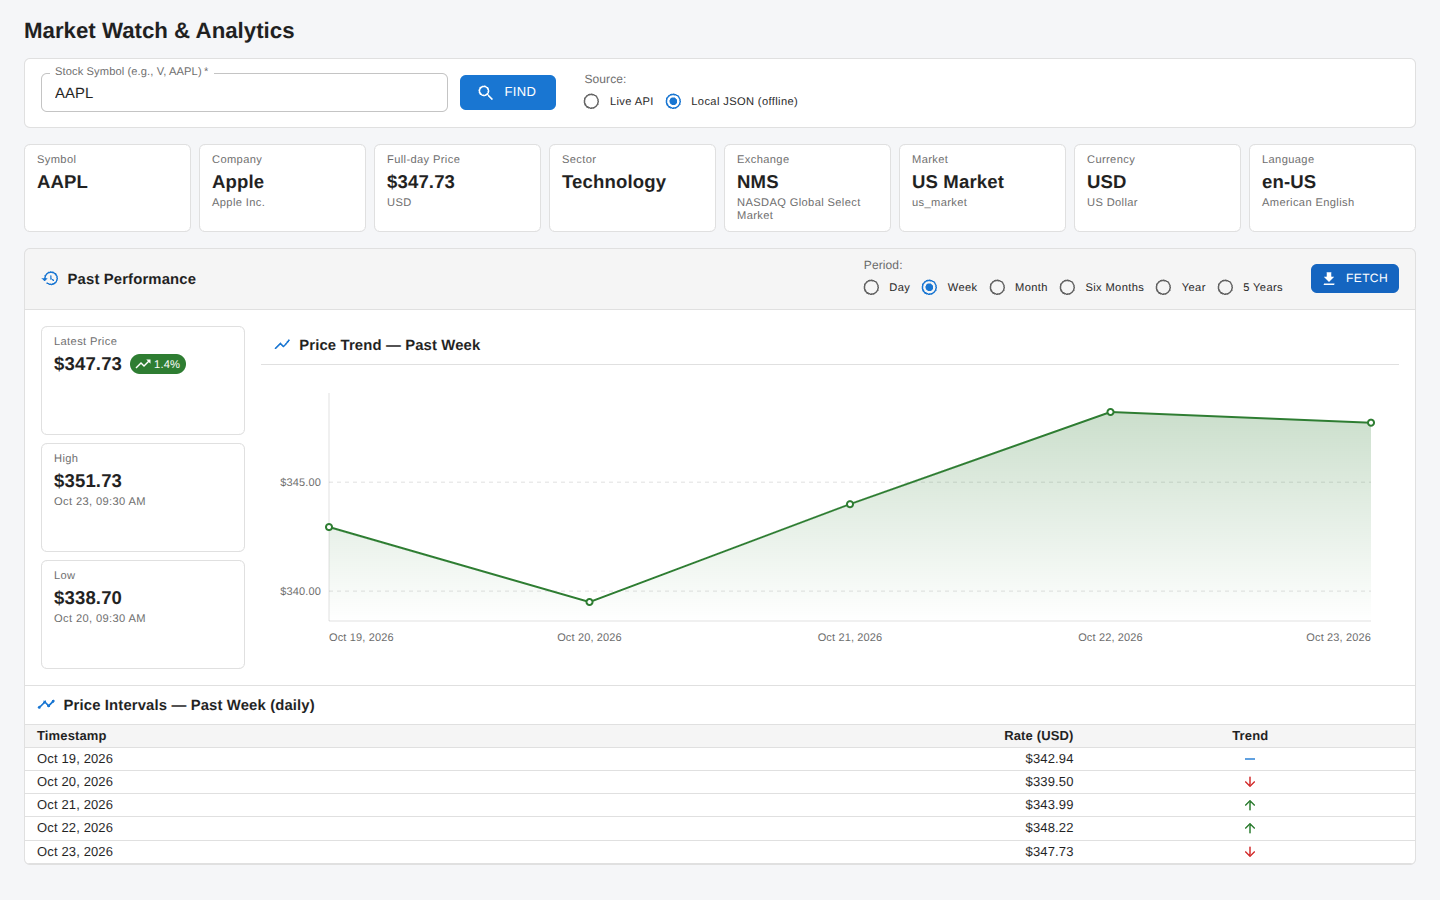
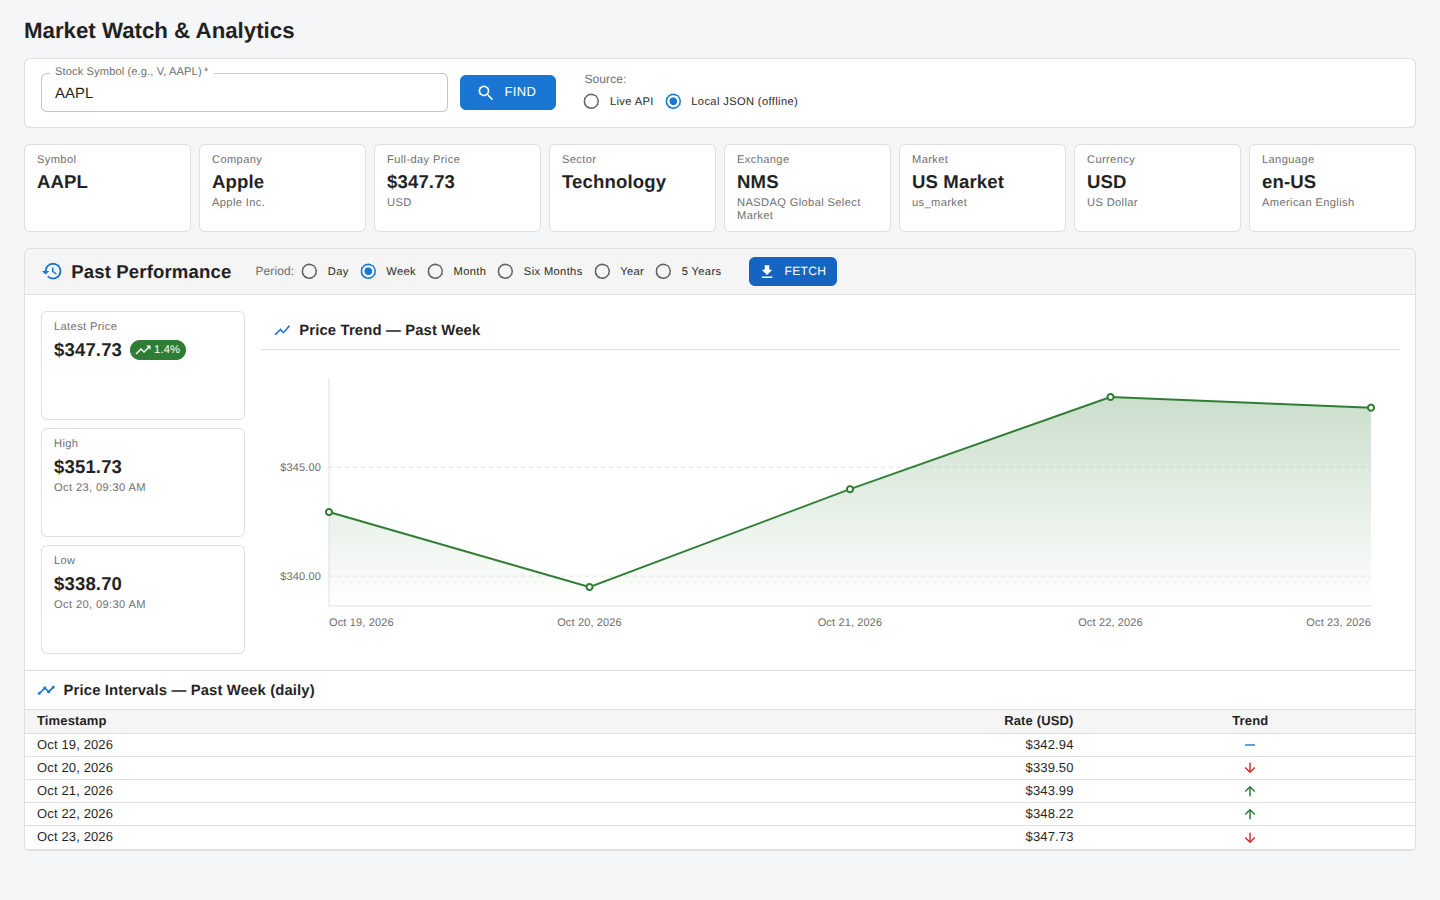
Market Watch UI - extension - fifth pass.

diff --git a/src/components/PastPerformanceSection.tsx b/src/components/PastPerformanceSection.tsx
@@ -30,9 +30,9 @@ export interface PastPerformanceSectionProps {
 export const PAST_PERFORMANCE_HEADING_ID = 'past-performance-heading';
 
 /**
- * "Past Performance" as one panel: a header bar (title, period selector, Fetch), then —
- * separated by dividers — the summary tiles beside the price chart, and the interval table.
- * Until the first fetch the chart and table render their empty states.
+ * "Past Performance" as one panel: a header bar (title, period selector, Fetch) and — only
+ * once a fetch is in flight, failed or loaded — the summary tiles beside the price chart and
+ * the interval table. Before the first fetch the panel is just its header.
  */
 export default function PastPerformanceSection({
   details,
@@ -44,12 +44,11 @@ export default function PastPerformanceSection({
   pendingPeriod,
   error,
 }: PastPerformanceSectionProps) {
-  const points = performance?.points ?? [];
-  const loadedLabel = performance ? `Past ${performancePeriodLabel(performance.period)}` : null;
-  const chartTitle = loadedLabel ? `Price Trend — ${loadedLabel}` : 'Price Trend';
-  const tableTitle = loadedLabel
-    ? `Price Intervals — ${loadedLabel}${performance?.interval ? ` (${describeInterval(performance.interval)})` : ''}`
-    : 'Price Intervals';
+  const loadedLabel = performance ? `Past ${performancePeriodLabel(performance.period)}` : '';
+  const chartTitle = `Price Trend — ${loadedLabel}`;
+  const tableTitle = `Price Intervals — ${loadedLabel}${
+    performance?.interval ? ` (${describeInterval(performance.interval)})` : ''
+  }`;
 
   return (
     <Paper
@@ -69,9 +68,9 @@ export default function PastPerformanceSection({
           bgcolor: 'action.hover',
         }}
       >
-        <Box sx={{ display: 'flex', alignItems: 'center', gap: 1, mr: 'auto' }}>
-          <HistoryIcon color="primary" fontSize="small" />
-          <Typography variant="subtitle1" component="h2" id={PAST_PERFORMANCE_HEADING_ID}>
+        <Box sx={{ display: 'flex', alignItems: 'center', gap: 1, mr: 1 }}>
+          <HistoryIcon color="primary" />
+          <Typography variant="h6" component="h2" id={PAST_PERFORMANCE_HEADING_ID} sx={{ fontWeight: 600 }}>
             Past Performance
           </Typography>
         </Box>
@@ -89,16 +88,18 @@ export default function PastPerformanceSection({
           {loading ? <CircularProgress size={18} color="inherit" /> : 'Fetch'}
         </Button>
       </Box>
-      <Divider />
 
       {error && (
-        <Box sx={{ p: 2, pb: 0 }}>
-          <ErrorBanner error={error} />
-        </Box>
+        <>
+          <Divider />
+          <Box sx={{ p: 2 }}>
+            <ErrorBanner error={error} />
+          </Box>
+        </>
       )}
 
-      {loading ? (
-        <Box sx={{ p: 2 }}>
+      {loading && (
+        <Box sx={{ p: 2, pt: 0 }}>
           <LoadingIndicator
             symbol={details.symbol}
             subject="past performance"
@@ -108,8 +109,11 @@ export default function PastPerformanceSection({
             py={3}
           />
         </Box>
-      ) : (
+      )}
+
+      {performance && !loading && (
         <>
+          <Divider />
           <Box
             data-testid="overview-row"
             sx={{
@@ -120,17 +124,15 @@ export default function PastPerformanceSection({
               flexDirection: { xs: 'column', md: 'row' },
             }}
           >
-            {performance && (
-              <Box sx={{ width: { xs: '100%', md: LAYOUT.overviewTiles }, flexShrink: 0 }}>
-                <StockSummaryCards performance={performance} currency={details.currency} />
-              </Box>
-            )}
+            <Box sx={{ width: { xs: '100%', md: LAYOUT.overviewTiles }, flexShrink: 0 }}>
+              <StockSummaryCards performance={performance} currency={details.currency} />
+            </Box>
             <Box sx={{ flexGrow: 1, minWidth: 0 }}>
-              <PriceChart history={points} title={chartTitle} currency={details.currency} embedded />
+              <PriceChart history={performance.points} title={chartTitle} currency={details.currency} embedded />
             </Box>
           </Box>
           <Divider />
-          <HourlyPriceTable history={points} title={tableTitle} currency={details.currency} embedded />
+          <HourlyPriceTable history={performance.points} title={tableTitle} currency={details.currency} embedded />
         </>
       )}
     </Paper>

diff --git a/src/App.test.tsx b/src/App.test.tsx
@@ -83,7 +83,7 @@ describe('App', () => {
     expect(Array.from(grid.children).map((tile) => tile.textContent)).toEqual(EXPECTED_AAPL_TILES);
   });
 
-  it('shows a "Past Performance" section beneath the tiles, unpopulated until Fetch is clicked', async () => {
+  it('shows a "Past Performance" header beneath the tiles, with no chart or table until Fetch is clicked', async () => {
     render(<App service={buildService()} lookupOptions={{ minLoadingMs: 0 }} />);
     await lookup('META', 'local');
     await screen.findByTestId('summary-symbol');
@@ -93,9 +93,51 @@ describe('App', () => {
     expect(tiles.compareDocumentPosition(section) & Node.DOCUMENT_POSITION_FOLLOWING).toBeTruthy();
 
     expect(within(section).getByRole('button', { name: 'Fetch' })).toBeEnabled();
-    expect(within(section).getByTestId('price-chart-empty')).toBeInTheDocument();
-    expect(within(section).getAllByRole('row')).toHaveLength(1); // header only
+    expect(within(section).queryByTestId('price-chart-panel')).not.toBeInTheDocument();
+    expect(within(section).queryByTestId('price-table-panel')).not.toBeInTheDocument();
+    expect(screen.queryByRole('table')).not.toBeInTheDocument();
     expect(screen.queryByTestId('summary-tiles')).not.toBeInTheDocument();
+  });
+
+  it('changing the period hides the loaded chart and table until Fetch is clicked again', async () => {
+    render(<App service={buildService()} lookupOptions={{ minLoadingMs: 0 }} />);
+    await lookup('AAPL', 'local');
+    await screen.findByTestId('summary-symbol');
+    await userEvent.click(fetchButton()); // Day
+    await screen.findByTestId('summary-tiles');
+    expect(screen.getByText('Price Trend — Past Day')).toBeInTheDocument();
+
+    await userEvent.click(periodRadio('Month'));
+    expect(screen.queryByTestId('summary-tiles')).not.toBeInTheDocument();
+    expect(screen.queryByTestId('price-chart-panel')).not.toBeInTheDocument();
+    expect(screen.queryByRole('table')).not.toBeInTheDocument();
+    expect(periodRadio('Month')).toBeChecked();
+
+    // Flipping back does not resurrect the old results either — only Fetch does.
+    await userEvent.click(periodRadio('Day'));
+    expect(screen.queryByTestId('price-chart-panel')).not.toBeInTheDocument();
+
+    await userEvent.click(fetchButton());
+    expect(await screen.findByTestId('summary-tiles')).toBeInTheDocument();
+    expect(screen.getByText('Price Trend — Past Day')).toBeInTheDocument();
+  });
+
+  it('changing the period also dismisses a previous fetch error', async () => {
+    const local = createLocalStockProvider(loadLocalJson);
+    const failing: StockProvider = {
+      ...local,
+      async getHighLow() {
+        throw new Error('highlow exploded');
+      },
+    };
+    render(<App service={buildService(failing)} lookupOptions={{ minLoadingMs: 0 }} />);
+    await lookup('AAPL', 'local');
+    await screen.findByTestId('summary-symbol');
+    await userEvent.click(fetchButton());
+    await screen.findByRole('alert');
+
+    await userEvent.click(periodRadio('Week'));
+    expect(screen.queryByRole('alert')).not.toBeInTheDocument();
   });
 
   it('Fetch calls historic and highlow for the selected period and populates tiles, chart and table (live API)', async () => {
@@ -194,7 +236,7 @@ describe('App', () => {
     await lookup('META', 'local');
     expect(await screen.findByTestId('summary-symbol')).toHaveTextContent('META');
     expect(screen.queryByTestId('summary-tiles')).not.toBeInTheDocument();
-    expect(screen.getByTestId('price-chart-empty')).toBeInTheDocument();
+    expect(screen.queryByTestId('price-chart-panel')).not.toBeInTheDocument();
   });
 
   it('fetches from the source the symbol was loaded with, even if the radio changed since', async () => {

diff --git a/src/components/PastPerformanceSection.test.tsx b/src/components/PastPerformanceSection.test.tsx
@@ -37,19 +37,20 @@ function renderSection(overrides: Partial<PastPerformanceSectionProps> = {}) {
 }
 
 describe('PastPerformanceSection', () => {
-  it('is a labelled section with the period selector and a Fetch button, chart and table empty before fetching', () => {
+  it('is just a header (title, period selector, Fetch) before anything is fetched', () => {
     renderSection();
 
     const section = screen.getByRole('region', { name: 'Past Performance' });
     expect(within(section).getByRole('heading', { level: 2 })).toHaveTextContent('Past Performance');
+    expect(within(section).getByRole('radiogroup', { name: 'Period:' })).toBeInTheDocument();
     expect(within(section).getByRole('radio', { name: 'Day' })).toBeChecked();
     expect(within(section).getByRole('button', { name: 'Fetch' })).toBeEnabled();
 
-    expect(within(section).getByTestId('price-chart-empty')).toHaveTextContent('No price data to plot.');
-    expect(within(section).getByText('Price Trend')).toBeInTheDocument();
-    expect(within(section).getByText('Price Intervals')).toBeInTheDocument();
-    expect(within(section).getAllByRole('row')).toHaveLength(1); // header only
+    expect(within(section).queryByTestId('price-chart-panel')).not.toBeInTheDocument();
+    expect(within(section).queryByTestId('price-table-panel')).not.toBeInTheDocument();
+    expect(within(section).queryByTestId('overview-row')).not.toBeInTheDocument();
     expect(within(section).queryByTestId('summary-tiles')).not.toBeInTheDocument();
+    expect(within(section).queryByRole('table')).not.toBeInTheDocument();
   });
 
   it('forwards period changes and Fetch clicks', async () => {
@@ -71,6 +72,7 @@ describe('PastPerformanceSection', () => {
     expect(screen.getByTestId('fetch-performance')).toBeDisabled();
     expect(screen.getByRole('radio', { name: 'Day' })).toBeDisabled();
     expect(screen.queryByRole('table')).not.toBeInTheDocument();
+    expect(screen.queryByTestId('price-chart-panel')).not.toBeInTheDocument();
   });
 
   it('renders the error banner inside the section', () => {
@@ -78,6 +80,7 @@ describe('PastPerformanceSection', () => {
     const section = screen.getByRole('region', { name: 'Past Performance' });
     expect(within(section).getByRole('alert')).toHaveTextContent('Live API timed out');
     expect(within(section).getByRole('button', { name: 'Fetch' })).toBeEnabled();
+    expect(within(section).queryByTestId('price-chart-panel')).not.toBeInTheDocument();
   });
 
   it('populates the summary tiles, chart and table from the loaded performance, titled by its period', () => {

diff --git a/src/components/PeriodSelector.tsx b/src/components/PeriodSelector.tsx
@@ -1,4 +1,4 @@
-import { FormControl, FormControlLabel, FormLabel, Radio, RadioGroup } from '@mui/material';
+import { Box, FormControlLabel, FormLabel, Radio, RadioGroup } from '@mui/material';
 import { isPerformancePeriod, PERFORMANCE_PERIODS, type PerformancePeriod } from '../types/performance.ts';
 
 export interface PeriodSelectorProps {
@@ -7,21 +7,19 @@ export interface PeriodSelectorProps {
   disabled?: boolean;
 }
 
-/** Controlled radio group for the "Past Performance" look-back window. */
+const LABEL_ID = 'performance-period-label';
+
+/** Controlled radio group for the "Past Performance" look-back window; label and radios on one line. */
 export default function PeriodSelector({ value, onChange, disabled = false }: PeriodSelectorProps) {
   return (
-    <FormControl
-      component="fieldset"
-      disabled={disabled}
-      sx={{ display: 'flex', flexDirection: 'row', alignItems: 'center', gap: 1 }}
-      data-testid="period-selector"
-    >
-      <FormLabel component="legend" sx={{ fontSize: '0.75rem', whiteSpace: 'nowrap' }}>
+    <Box sx={{ display: 'flex', alignItems: 'center', gap: 1 }} data-testid="period-selector">
+      <FormLabel id={LABEL_ID} component="span" disabled={disabled} sx={{ fontSize: '0.75rem', whiteSpace: 'nowrap' }}>
         Period:
       </FormLabel>
       <RadioGroup
         row
         name="performance-period"
+        aria-labelledby={LABEL_ID}
         value={value}
         onChange={(e) => {
           if (isPerformancePeriod(e.target.value)) onChange(e.target.value);
@@ -34,11 +32,12 @@ export default function PeriodSelector({ value, onChange, disabled = false }: Pe
             value={option.value}
             control={<Radio size="small" sx={{ py: 0.5 }} />}
             label={option.label}
+            disabled={disabled}
             slotProps={{ typography: { variant: 'caption' } }}
             sx={{ mr: 1.5 }}
           />
         ))}
       </RadioGroup>
-    </FormControl>
+    </Box>
   );
 }

diff --git a/src/App.tsx b/src/App.tsx
@@ -58,6 +58,15 @@ export default function App({ service, lookupOptions }: AppProps) {
     [startLookup, source],
   );
 
+  /** Results belong to the period they were fetched for; a new choice hides them until the next Fetch. */
+  const changePeriod = useCallback(
+    (next: PerformancePeriod) => {
+      setPeriod(next);
+      resetPerf();
+    },
+    [resetPerf],
+  );
+
   const fetchPerformance = useCallback(() => {
     if (data && loadedSource) void fetchPerf(data.symbol, period, loadedSource);
   }, [data, loadedSource, period, fetchPerf]);
@@ -87,7 +96,7 @@ export default function App({ service, lookupOptions }: AppProps) {
           <PastPerformanceSection
             details={data.details}
             period={period}
-            onPeriodChange={setPeriod}
+            onPeriodChange={changePeriod}
             onFetch={fetchPerformance}
             performance={performance.data}
             loading={performance.loading}

diff --git a/src/components/PeriodSelector.test.tsx b/src/components/PeriodSelector.test.tsx
@@ -13,7 +13,7 @@ describe('PeriodSelector', () => {
     expect(screen.getByRole('radio', { name: 'Month' })).toBeChecked();
     expect(screen.getByRole('radio', { name: 'Six Months' })).toBeInTheDocument();
     expect(screen.getByRole('radio', { name: '5 Years' })).toBeInTheDocument();
-    expect(screen.getByText('Period:')).toBeInTheDocument();
+    expect(screen.getByRole('radiogroup', { name: 'Period:' })).toBeInTheDocument();
   });
 
   it('reports the chosen period through onChange', async () => {

diff --git a/vite.config.ts b/vite.config.ts
@@ -9,6 +9,8 @@ export default defineConfig({
     environment: 'jsdom',
     setupFiles: ['./src/test/setup.ts'],
     css: false,
+    // App-level tests drive several lookups/fetches through user-event; allow headroom on slow CI.
+    testTimeout: 15_000,
     coverage: {
       provider: 'v8',
       include: ['src/**/*.{ts,tsx}'],

diff --git a/README.md b/README.md
@@ -105,16 +105,17 @@ The UI is a single-screen dashboard (`Container maxWidth={false}`):
   fields: Symbol, Company (display name + long name), Full-day Price (formatted in the stock's currency),
   Sector, Exchange (code + name for known codes), Market (humanised), Currency and Language (code + name
   via `Intl.DisplayNames`). Tiles for absent fields are not rendered.
-- **Past Performance** — a single panel beneath the tiles. Its header bar holds the title, period radio group
-  (Day / Week / Month / Six Months / Year / 5 Years, default Day; the choice persists across lookups)
-  and a **Fetch** button. Fetch calls `/historic` and `/highlow` together for the loaded symbol, the
+- **Past Performance** — a single panel beneath the tiles. Its header bar holds the title, the period radio
+  group right beside it (Day / Week / Month / Six Months / Year / 5 Years, default Day; the choice persists
+  across lookups) and a **Fetch** button. Until Fetch is clicked the panel is just this header. Fetch calls `/historic` and `/highlow` together for the loaded symbol, the
   selected period and the source the symbol was loaded from, with its own loading indicator and error
   banner inside the panel. Results render as: Latest Price (with change over the period) plus High
   and Low tiles (with when they occurred) in a 15% column beside the price chart (fixed 280px height,
   container-measured via `useElementWidth`), then a divider and the dense interval table — titled by
   the loaded period and sampling interval (e.g. "Past Week (daily)"). The chart and table are rendered
-  `embedded` (no border of their own) so the group reads as one unit. Before the first fetch they
-  render empty; looking up another symbol clears the results. Stacks vertically on small screens.
+  `embedded` (no border of their own) so the group reads as one unit. Results belong to the period they
+  were fetched for: changing the radio (or looking up another symbol) removes them, and nothing is shown
+  again until the next Fetch. Stacks vertically on small screens.
 - **Lookup lifecycle** — clicking Find clears any previous results immediately and shows a
   "Fetching results for X…" indicator for at least one second (`withMinimumDuration`), so even
   the instant local source gives visible feedback. Failures render as a styled `ErrorBanner` with a
@@ -132,7 +133,7 @@ Captured with headless Chromium at 1440px — see `docs/screenshots/`:
 | --- | --- |
 | `00-initial.png` | Empty state; "Find" disabled until a symbol is entered |
 | `01-loading.png` | "Fetching results…" indicator (shown for at least 1 s, even for the local source) |
-| `AAPL.png`, `GOOG.png`, `META.png` | Detail tiles and the Past Performance section before fetching |
+| `AAPL.png`, `GOOG.png`, `META.png` | Detail tiles and the Past Performance header before fetching |
 | `AAPL-WEEK.png`, `GOOG-DAY.png`, `META-FIVE_YEAR.png` | After Fetch: high/low tiles, chart and table for the period (offline fixtures) |
 | `live-META.png` | Same via the live API (`/stock`, `/historic`, `/highlow` served by a stub), Week |
 | `90-not-found.png` | Unknown symbol in the offline data, with clickable suggestions |
